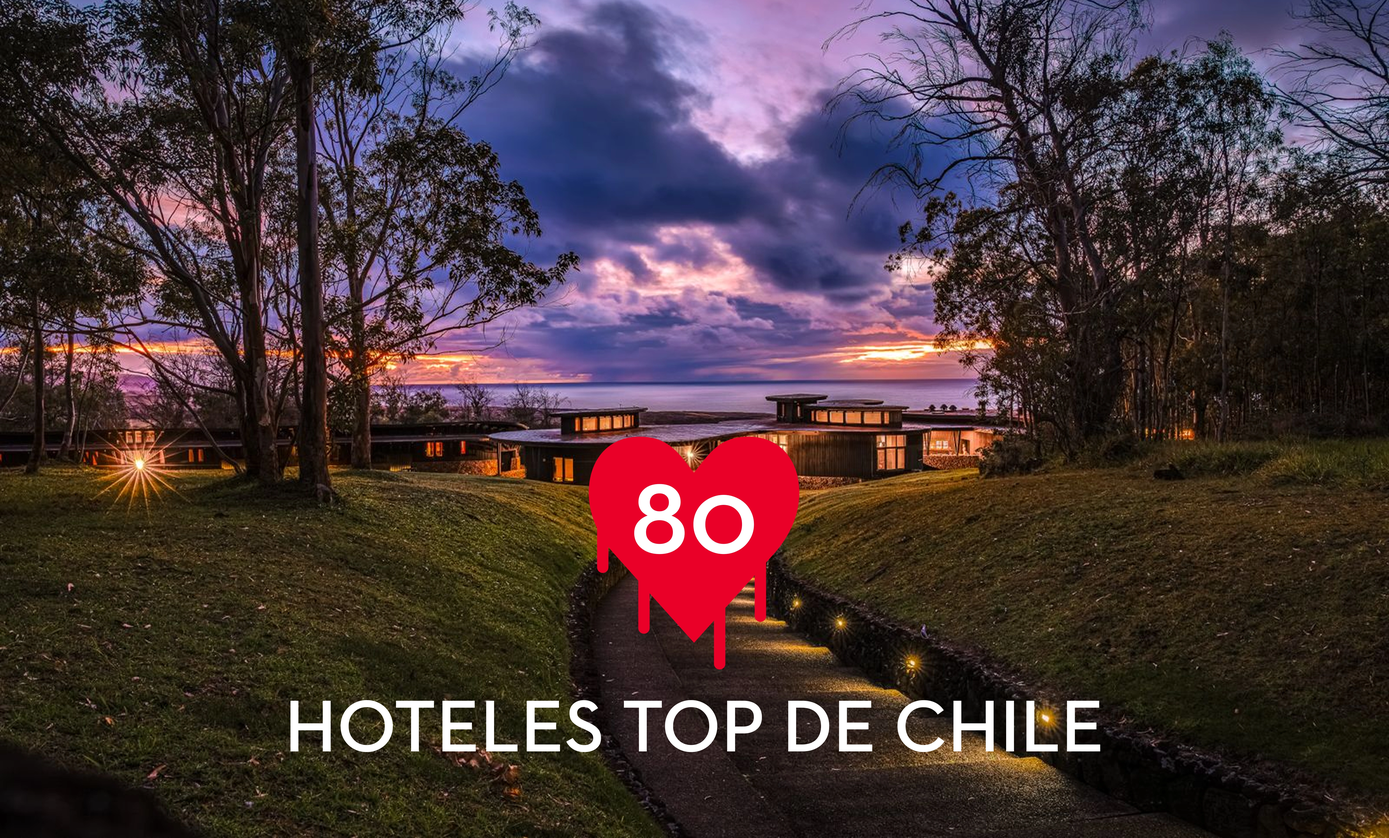
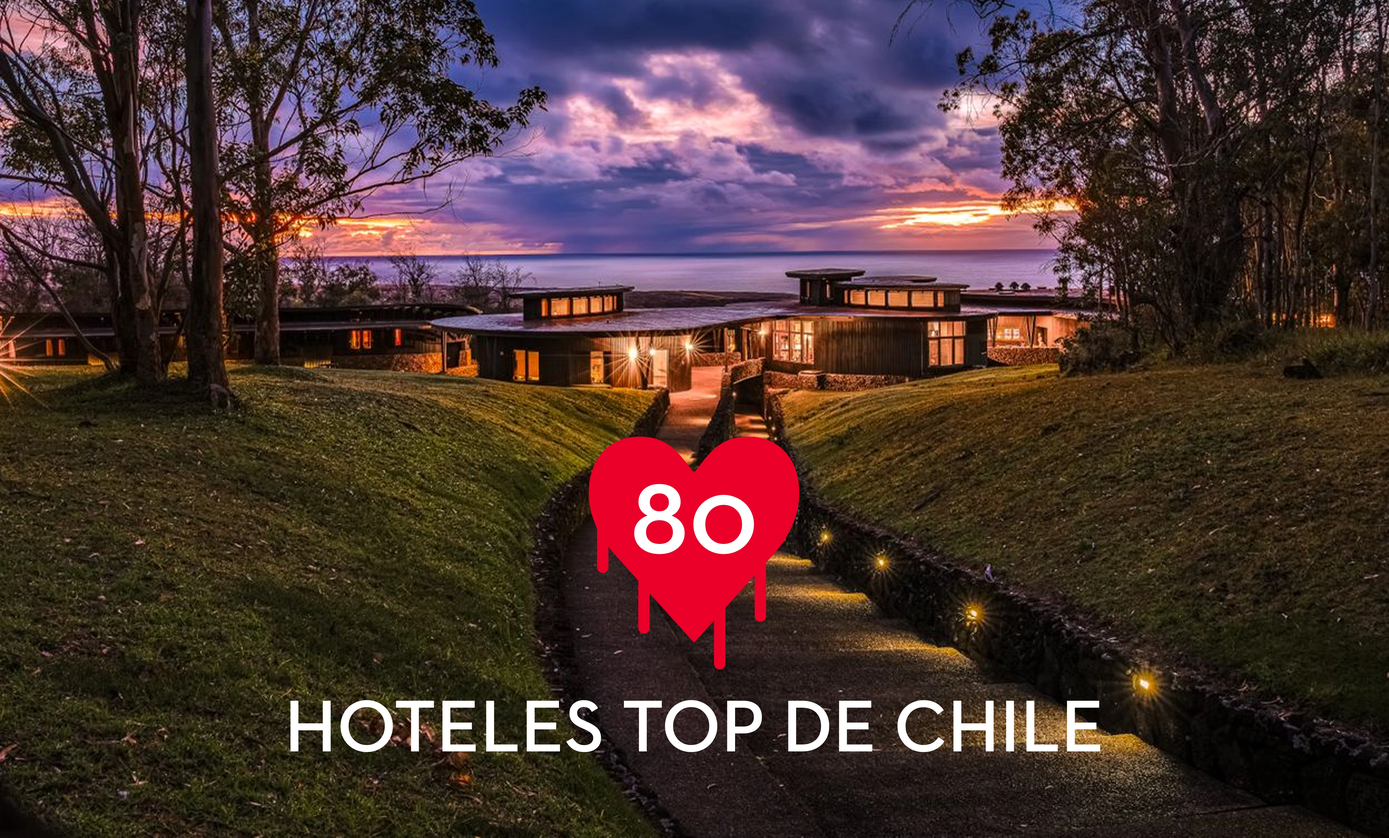
update

diff --git a/components/home-promo-banners.home-v2.tsx b/components/home-promo-banners.home-v2.tsx
@@ -13,33 +13,34 @@ function StackSlot({ children }: { children: React.ReactNode }) {
 const stackImageClassName =
   "block w-full h-auto md:h-full object-contain md:object-cover";
 
-/** Columna media del home: restaurantes arriba (como antes), hoteles abajo sin marco. */
+/** Columna media del home: mismas proporciones que Toyota + Cafés. */
 export function RestaurantsStackBanners() {
   return (
     <div className="w-full flex flex-col gap-[18px] md:gap-4 overflow-hidden md:h-[520px] lg:h-[437px]">
-      <div className="relative flex-1 min-h-0 bg-black overflow-hidden flex items-center justify-center p-3 md:p-4 lg:p-5">
+      <div className="relative w-full md:flex-1 md:min-h-0 bg-black overflow-hidden flex items-center justify-center">
         <ManagedBanner
           desktopKey="home-promo-restaurantes"
           href="/restaurantes"
           src="/bannerHome/70 RESTAURANTES.webp"
-          mobileSrc="/bannerHome/restaurantes movil.png"
           alt="Restaurantes"
+          hideFallbackWhileLoading
           className="block w-full h-full flex items-center justify-center"
           imageClassName="max-w-full max-h-full object-contain"
         />
       </div>
 
-      <StackSlot>
+      <div className="relative w-full md:flex-1 md:min-h-0 overflow-hidden">
         <ManagedBanner
           desktopKey="home-promo-hoteles"
           href="https://www.chileadictohoteles.cl/"
           openInNewTab
           src="/bannerHome/BANNER HOTELES.webp"
           alt="Chile Adicto Hoteles"
+          hideFallbackWhileLoading
           className="block w-full h-full"
           imageClassName={stackImageClassName}
         />
-      </StackSlot>
+      </div>
     </div>
   );
 }

diff --git a/components/managed-banner.tsx b/components/managed-banner.tsx
@@ -80,11 +80,12 @@ export function ManagedBanner({
           (itemIndex === 0 ? desktopValue?.[0] : undefined);
         if (desktopItem) setDesktop(desktopItem);
         if (mobileItem) setMobile(mobileItem);
+        // Si el slider del back no trae items, mantener el fallback local
         if (
           hideFallbackWhileLoading &&
-          itemIndex > 0 &&
           !desktopItem &&
-          !mobileItem
+          !mobileItem &&
+          itemIndex > 0
         ) {
           setMissing(true);
         }
